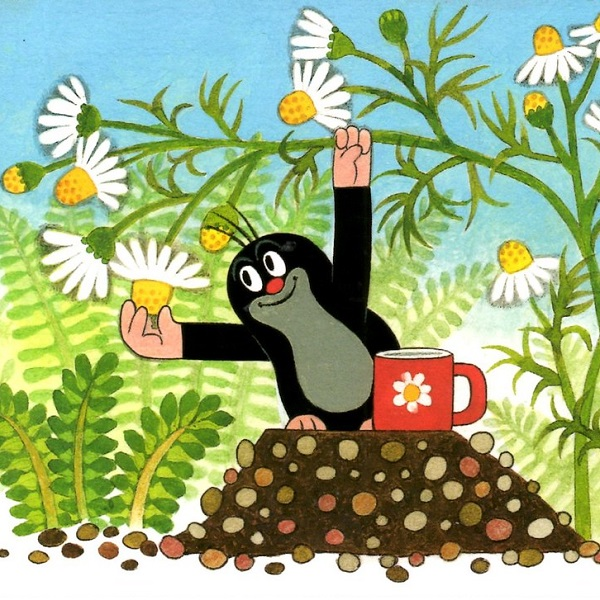
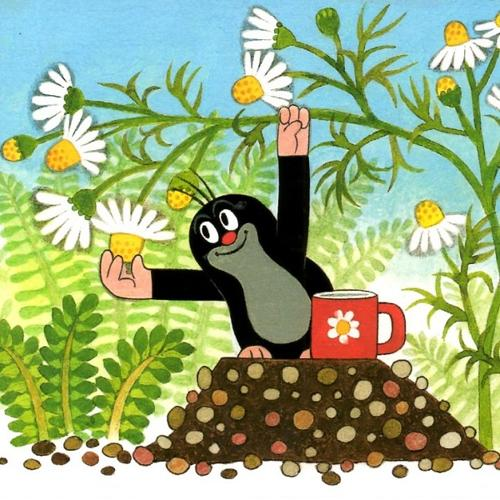
Buttons added

Changed region(s): [[0.87, 0.18, 0.9, 0.21], [0.36, 0.36, 0.39, 0.39]]

diff --git a/SceneSplash.py b/SceneSplash.py
@@ -1,6 +1,7 @@
 import pygwidgets
 import pyghelpers
 import pygame
+import sys
 from pygame.locals import *
 from Constants import *
 
@@ -9,63 +10,46 @@ class SceneSplash(pyghelpers.Scene):
     def __init__(self, window):
         self.window = window
         #TEXTS:
-        self.WelcomeText = pygwidgets.DisplayText(self.window,
-                                                  (50, 10),
-                                                  "Welcome!",
-                                                  fontSize=70,
-                                                  textColor=YELLOW,
-                                                  fontName="cmr10",
-                                                  width=WINDOW_WIDTH-50-50,
-                                                  justified="center")
-
         self.ChooseText = pygwidgets.DisplayText(self.window,
-                                                  (50, 80 + SMALL_IMG + 20 + SMALL_IMG + 10),
+                                                  (50, 10),
                                                   "Choose a picture!",
                                                   fontSize=40,
                                                   textColor=YELLOW,
                                                   fontName="cmr10",
                                                   width=WINDOW_WIDTH-50-50,
                                                   justified="center")
-        """
-        self.CreatorText = pygwidgets.DisplayText(self.window,
-                                                  (0, WINDOW_HEIGHT-14),
-                                                  "by Github/MaksoPe v1.0",
-                                                  fontSize=12,
-                                                  textColor=WHITE,
-                                                  fontName="cmr10",
-                                                  width=WINDOW_WIDTH-2,
-                                                  justified="right")
-        """
+
+
         #BUTTONS:
         self.image1 = pygwidgets.CustomButton(self.window,
-                                              (WINDOW_WIDTH/2 - SMALL_IMG - 10, 80),
+                                              (WINDOW_WIDTH/2 - SMALL_IMG - 10, 50),
                                               up="images/1up.jpg",
                                               over="images/1over.jpg")
         
         self.image2 = pygwidgets.CustomButton(self.window,
-                                              (WINDOW_WIDTH/2 + 10, 80),
+                                              (WINDOW_WIDTH/2 + 10, 50),
                                               up="images/2up.jpg",
                                               over="images/2over.jpg")
         
         self.image3 = pygwidgets.CustomButton(self.window,
                                               (WINDOW_WIDTH/2 - SMALL_IMG - 10,
-                                               80 + SMALL_IMG + 10 +10),
+                                               50 + SMALL_IMG + 10 +10),
                                               up="images/3up.jpg",
                                               over="images/3over.jpg")
         
         self.image4 = pygwidgets.CustomButton(self.window,
                                               (WINDOW_WIDTH/2 + 10,
-                                               80 + SMALL_IMG + 10 +10),
+                                               50 + SMALL_IMG + 10 +10),
                                               up="images/4up.jpg",
                                               over="images/4over.jpg")
         
-        self.exitButton = pygwidgets.TextButton(self.window,
-                                                (20, 660),
-                                                "Exit")
+        self.ExitButton = pygwidgets.CustomButton(self.window,
+                                                  (WINDOW_WIDTH/2 - 120, WINDOW_HEIGHT - 120 - 15),
+                                                  up="images/button_exit_up.png",
+                                                  over="images/button_exit_over.png",
+                                                  disabled="images/button_exit_disable.png")
                                                 
         
-
-
     def getSceneKey(self):
         return SCENE_SPLASH
 
@@ -82,6 +66,11 @@ class SceneSplash(pyghelpers.Scene):
                 self.goToScene(SCENE_PLAY, IMG_TUPLE[2])
             if self.image4.handleEvent(event):
                 self.goToScene(SCENE_PLAY, IMG_TUPLE[3])
+            if ((event.type == QUIT) or
+                ((event.type == KEYDOWN) and (event.key == K_ESCAPE)) or
+                (self.ExitButton.handleEvent(event))):
+                pygame.quit()
+                sys.exit()
 
                 
     def update(self):
@@ -89,13 +78,14 @@ class SceneSplash(pyghelpers.Scene):
 
     def draw(self):
         self.window.fill(BACK_GRD)
-        self.WelcomeText.draw()
+        #Button
         self.image1.draw()
         self.image2.draw()
         self.image3.draw()
         self.image4.draw()
+        self.ExitButton.draw()
+        #Text
         self.ChooseText.draw()
-        #self.CreatorText.draw()
 
     def leave(self):
         return None

diff --git a/ScenePlay.py b/ScenePlay.py
@@ -1,6 +1,7 @@
 import pygwidgets
 import pyghelpers
 import pygame
+import sys
 from pygame.locals import *
 from Constants import *
 from PIL import Image
@@ -9,7 +10,20 @@ class ScenePlay(pyghelpers.Scene):
     def __init__(self, window):
         self.window = window
         self.SpriteImgDict = {}
-        #START BUTTON
+        
+        #Buttons:
+        self.MainButton = pygwidgets.CustomButton(self.window,
+                                                  (WINDOW_WIDTH - 240 - 10, WINDOW_HEIGHT - 120 - 10),
+                                                  up="images/button_main_up.png",
+                                                  over="images/button_main_over.png",
+                                                  disabled="images/button_main_disable.png")
+
+        self.StartButton = pygwidgets.CustomButton(self.window,
+                                                   (0 + 10, WINDOW_HEIGHT - 120 - 10),
+                                                   up="images/button_start_up.png",
+                                                   over="images/button_start_over.png",
+                                                   disabled="images/button_start_disable.png")
+        
         #RESTART BUTTON?
         #TIMER
         #BACKGROUND MUSIC?
@@ -38,7 +52,7 @@ class ScenePlay(pyghelpers.Scene):
                 tile_image = large_img.subsurface(subsurfaceRect)
 		
                 oTile = pygwidgets.Image(self.window,
-                                         (20 + x * side, 20 + y * side),
+                                         (70 + x * side, 35 + y * side),
                                          tile_image)
 						       
                 self.SpriteImgDict[key] = oTile
@@ -46,12 +60,21 @@ class ScenePlay(pyghelpers.Scene):
         
     def handleInputs(self, eventsList, keysPressedList):
         for event in eventsList:
-            pass
+            if ((event.type == QUIT) or
+                ((event.type == KEYDOWN) and (event.key == K_ESCAPE))):
+                pygame.quit()
+                sys.exit()
+            if self.MainButton.handleEvent(event):
+                self.goToScene(SCENE_SPLASH)
+            if self.StartButton.handleEvent(event):
+                self.goToScene(SCENE_PLAY, IMG_TUPLE[0])
         #HERE CHECK WHICH ONE IS CLICKED AND IF THE
         #EMPTY IS IN THE TOUCHING CROSS, THAN SWAP IT OUT
 
     def draw(self):
         self.window.fill(BACK_GRD)
+        self.MainButton.draw()
+        self.StartButton.draw()
         for key,value in self.SpriteImgDict.items():
             self.SpriteImgDict[key].draw()
 

diff --git a/main_SlidingPuzzle.py b/main_SlidingPuzzle.py
@@ -5,14 +5,11 @@ from Constants import *
 from SceneSplash import *
 from ScenePlay import *
 
-# 3 - Initialize the world
+#Initialize the world
 pygame.init()
 window = pygame.display.set_mode((WINDOW_WIDTH, WINDOW_HEIGHT))
 clock = pygame.time.Clock()
 
-# 4 - Load assets: image(s), sounds,  etc.
-
-# 5 - Initialize variables
 # Instantiate all scenes and store them into a list
 scenesList = [SceneSplash(window),
               ScenePlay(window)]

diff --git a/Constants.py b/Constants.py
@@ -6,7 +6,7 @@ SCENE_PLAY = "play scene"
 WINDOW_WIDTH = 640
 WINDOW_HEIGHT = 700
 FPS = 30
-BIG_IMG = 600
+BIG_IMG = 500
 SMALL_IMG = 240
 
 #Pictures
